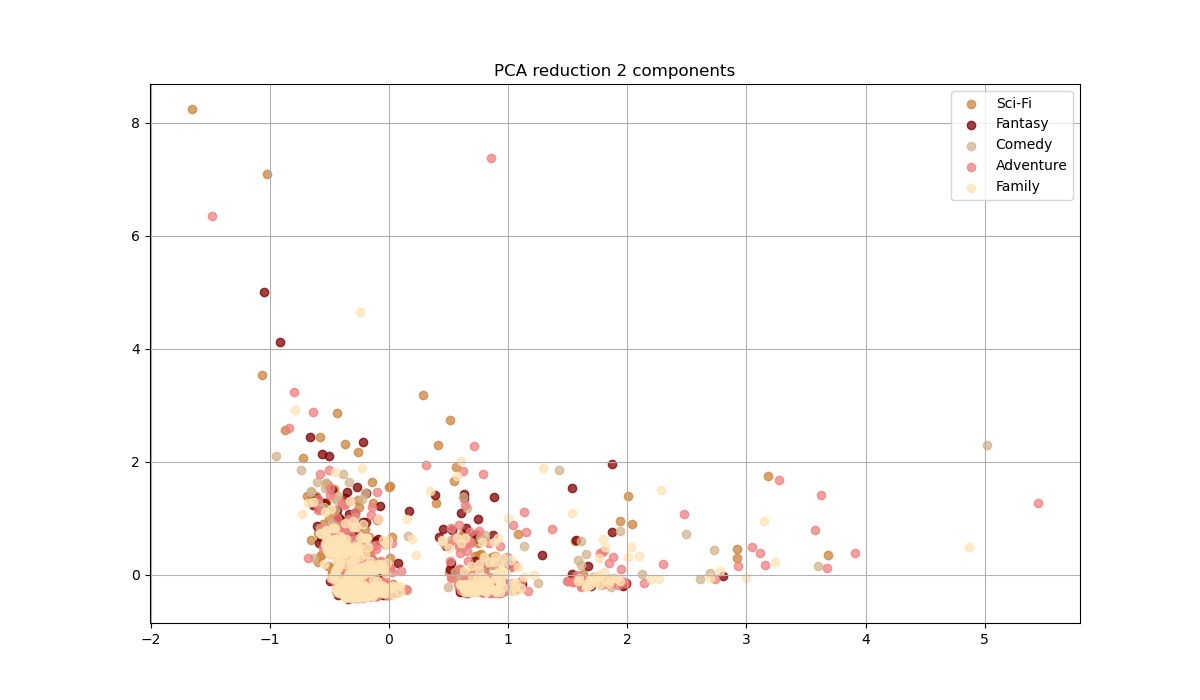
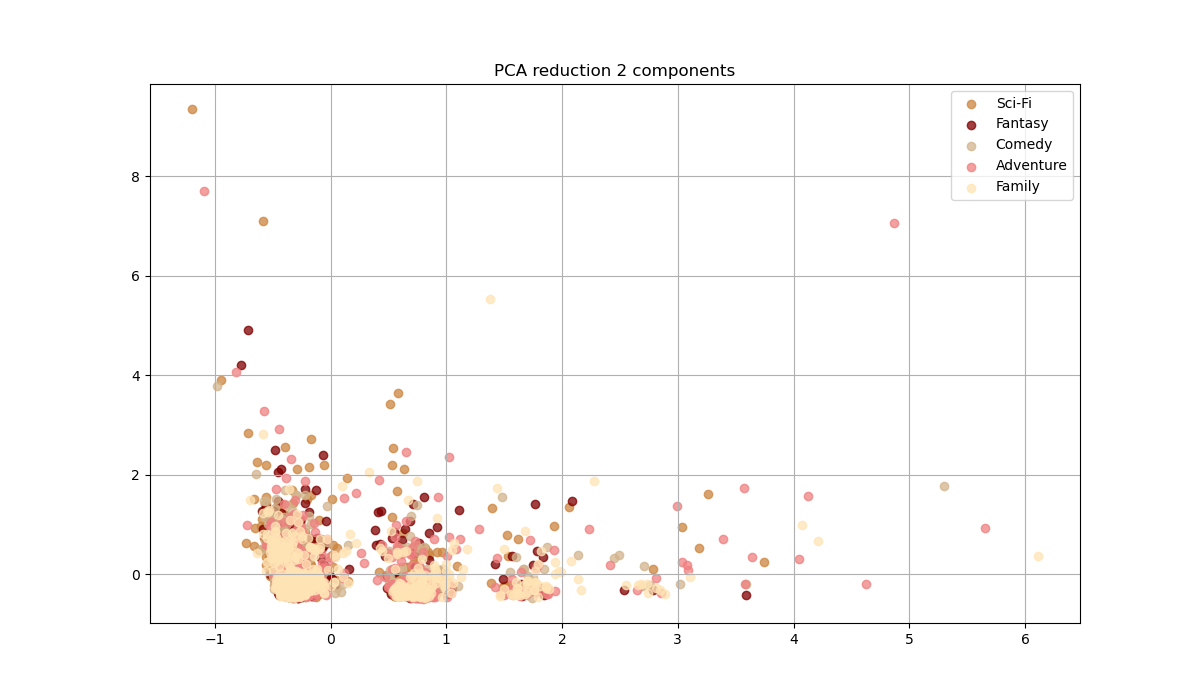
new plot from lemmas

diff --git a/src/visualization/visualization.py b/src/visualization/visualization.py
@@ -47,8 +47,8 @@ def main():
     corpus = glob.glob(f"{sys.argv[1]}/*/*.txt")
     classes = [os.path.basename(os.path.dirname(file_path)) for file_path in corpus]
     content = load_corpus(corpus)
-    #vectorizer = CountVectorizer(input="content", stop_words="english")
-    vectorizer = TfidfVectorizer(input="content", stop_words="english")
+    vectorizer = CountVectorizer(input="content", stop_words="english")
+    #vectorizer = TfidfVectorizer(input="content", stop_words="english")
     matrix = vectorizer.fit_transform(content).toarray()
     df = pd.DataFrame(matrix, columns=vectorizer.get_feature_names_out())
     #print(df)
